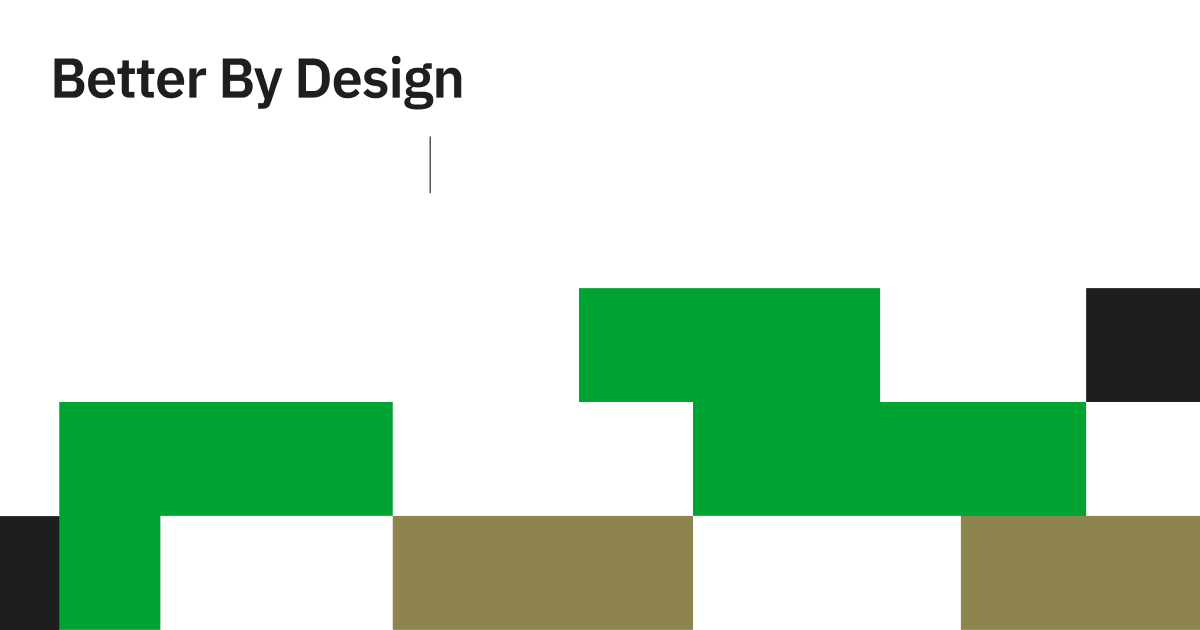
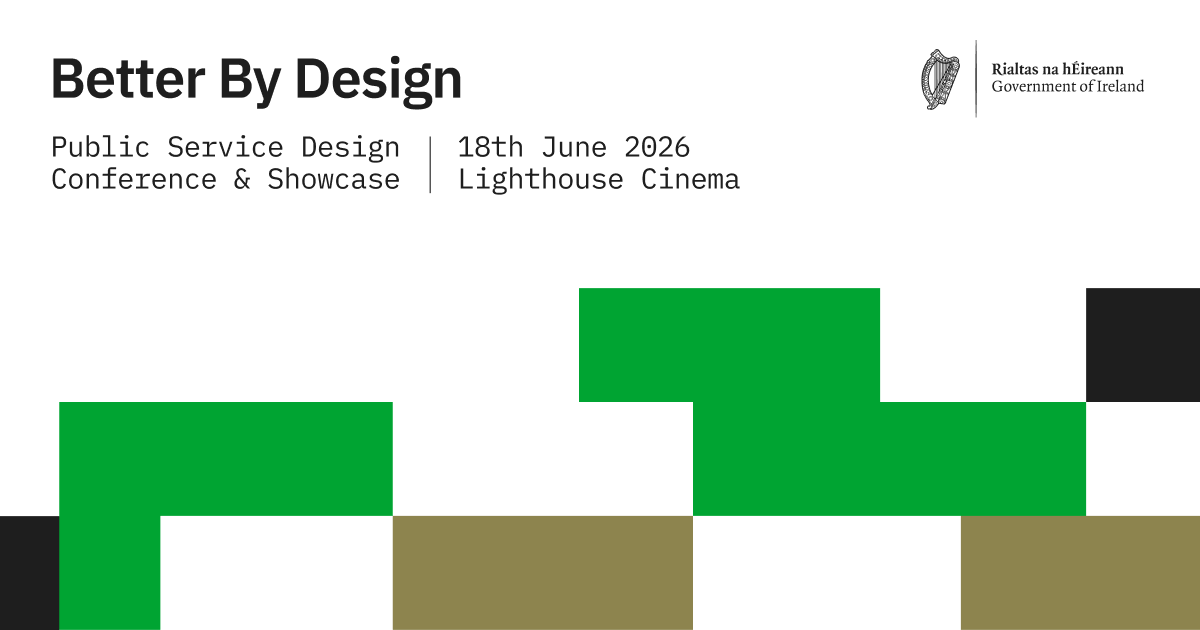
updating with fixed links

diff --git a/next.config.ts b/next.config.ts
@@ -1,13 +1,21 @@
 import type { NextConfig } from 'next'
 
+const basePath = process.env.GITHUB_ACTIONS
+  ? '/betterbydesign'
+  : (process.env.NEXT_PUBLIC_BASE_PATH ?? '')
+
 const nextConfig: NextConfig = {
   output: 'export',
   trailingSlash: true,
   images: {
     unoptimized: true,
   },
-  // Apply basePath automatically when building on GitHub Actions
-  basePath: process.env.GITHUB_ACTIONS ? '/betterbydesign' : (process.env.NEXT_PUBLIC_BASE_PATH ?? ''),
+  basePath,
+  // Expose basePath to app code so images can be prefixed manually
+  // (next/image with unoptimized:true does not apply basePath in static export)
+  env: {
+    NEXT_PUBLIC_BASE_PATH: basePath,
+  },
 }
 
 export default nextConfig

diff --git a/components/Footer.tsx b/components/Footer.tsx
@@ -41,8 +41,8 @@ export default function Footer() {
     <footer className="bg-white text-bbd-black" role="contentinfo">
 
       {/* Non-flush black rule */}
-      <div className="page-x" style={{ paddingTop: '96px', paddingBottom: '32px' }}>
-        <div style={{ borderTop: '1px solid #0A0A0A' }} />
+      <div className="page-x pt-24">
+        <div className="border-t border-bbd-black" />
       </div>
 
       {/* Top row — description + social */}
@@ -108,7 +108,7 @@ export default function Footer() {
       </div>
 
       {/* Bottom row — large logotype left, partner logos bottom-right */}
-      <div className="page-x pt-12 md:pt-24 flex flex-col sm:flex-row sm:items-end sm:justify-between gap-8" style={{ paddingBottom: '1rem' }}>
+      <div className="page-x pt-12 md:pt-24 pb-4 flex flex-col sm:flex-row sm:items-end sm:justify-between gap-8">
         <FluidContainer style={{ minWidth: 0, flex: '1 1 auto' }}>
           <p className="fluid-display text-bbd-black leading-none">{event.name}</p>
           <p className="fluid-display-light text-bbd-black leading-none" style={{ marginBottom: '-0.18em' }}>{event.year}</p>

diff --git a/lib/img.ts b/lib/img.ts
@@ -1,0 +1,5 @@
+// Prefix an image path with the basePath so static-exported images resolve
+// correctly on GitHub Pages (next/image with unoptimized:true does not apply
+// basePath automatically in static export mode).
+const BASE = process.env.NEXT_PUBLIC_BASE_PATH ?? ''
+export const img = (path: string) => `${BASE}${path}`

diff --git a/components/AgendaDrawer.tsx b/components/AgendaDrawer.tsx
@@ -60,8 +60,7 @@ function AgendaRow({ item }: { item: AgendaItem }) {
     <div className="flex gap-5 md:gap-8 py-6 border-b border-white/10 last:border-0">
       {/* Time */}
       <div
-        className="flex-shrink-0 text-[#00A432] tabular-nums"
-        style={{ fontSize: '10px', fontWeight: 600, paddingTop: '3px', width: '42px' }}
+        className="flex-shrink-0 text-[#00A432] tabular-nums text-[10px] font-semibold pt-[3px] w-[42px]"
       >
         {item.time}
       </div>

diff --git a/components/Ministers.tsx b/components/Ministers.tsx
@@ -36,9 +36,8 @@ function MinisterCard({ slug, name, role, organisation, image }: Minister) {
             />
             {/* Gold tint overlay using multiply blend */}
             <div
-              className="absolute inset-0"
+              className="absolute inset-0 bg-[#c49a28] mix-blend-multiply opacity-55"
               aria-hidden="true"
-              style={{ backgroundColor: '#c49a28', mixBlendMode: 'multiply', opacity: 0.55 }}
             />
           </>
         ) : (